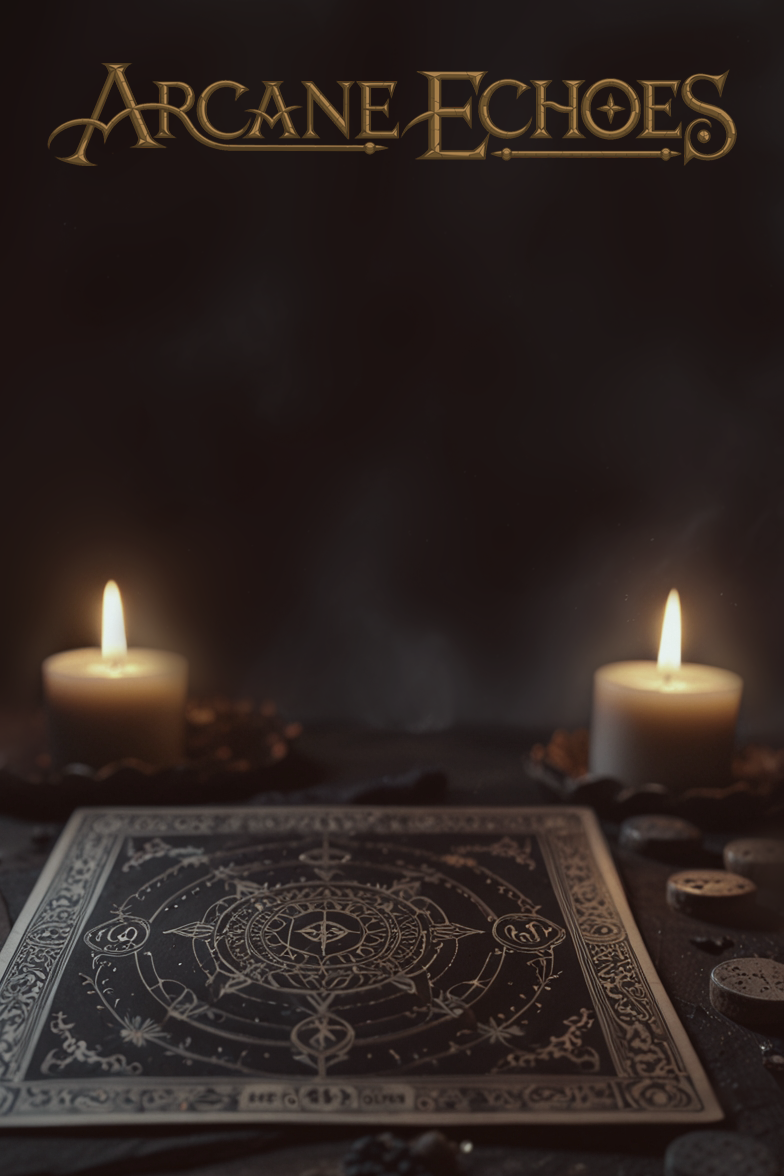
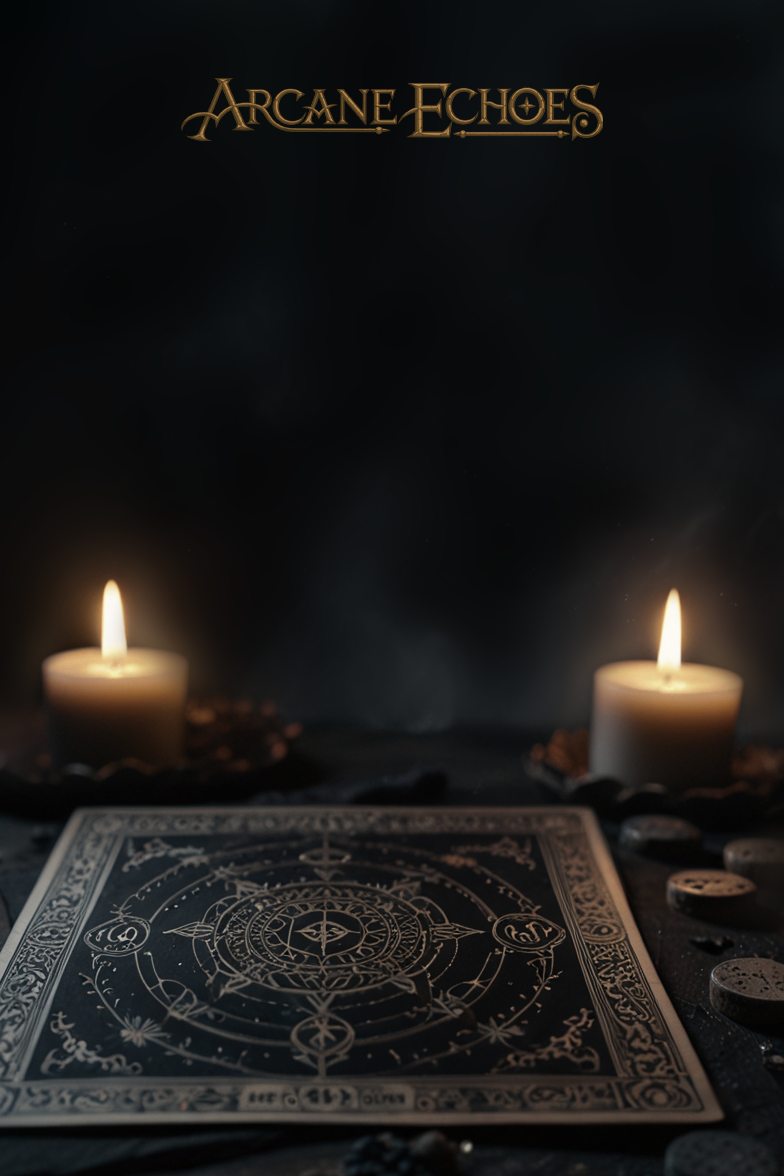
start

Changed region(s): [[0.0612, 0.0306, 0.949, 0.1531]]

diff --git a/style.css b/style.css
@@ -168,8 +168,8 @@ box-shadow: 2px 2px 4px rgb(0, 0, 0);
 }
 
 .custom-swal{
-    width: 80%;
-    height: 100%;
+    width: 100vh;
+    height: 95vh;
     display: flex;
     flex-direction: column;
     justify-content: left;
@@ -179,7 +179,7 @@ box-shadow: 2px 2px 4px rgb(0, 0, 0);
         color: rgb(182, 169, 143);
     text-shadow: 0 0px 2px  rgba(44, 15, 1, 0.952);
   
-    background-image: url(/images/awesome.png);
+    background-image: url(/images/awesome2.png);
 background-size: cover;
 background-position: top;
 }
@@ -237,8 +237,8 @@ background-position: center;    height: 20px;
     box-shadow: none;
     background-size: cover;
 background-position: center;
-        border: 1px solid #1f3844;
-box-shadow: 2px 2px 4px #232d33;;
+        border: 1px solid #ecd8adfd;
+box-shadow:0px 0px 4px #e9b036c0;
 
        
     }

diff --git a/script.js b/script.js
@@ -168,7 +168,7 @@ final.volume = 0;
 match.volume=0;
 Swal.fire({
   
-    html:  " <br><br><br><br><span id='homeSoundOnOff' class='homeText'>Sound Off/On<br></span><button id='homeSound'>🔊</button><br><br><span class='homeText'>English/Español</span><br><button id='homeIdiom'>English</button><br><br><br>",
+    html:  " <br><br><br><br><br><br><br><br><span id='homeSoundOnOff' class='homeText'>Sound Off/On<br></span><button id='homeSound'>🔊</button><br><br><span class='homeText'>English/Español</span><br><button id='homeIdiom'>English</button><br><br><br>",
     confirmButtonText: "Start",
    // Fondo del modal transparente
     width:"40vh",
